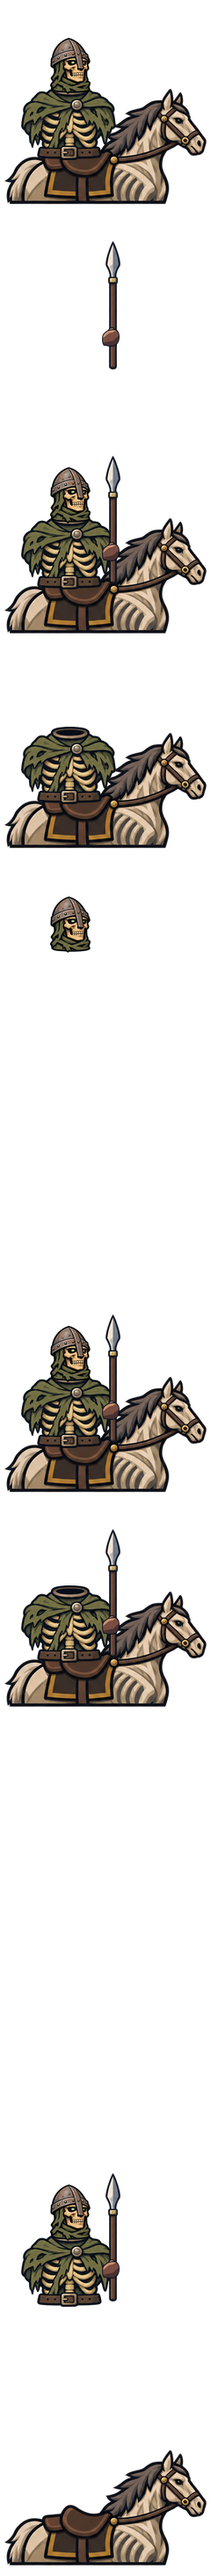
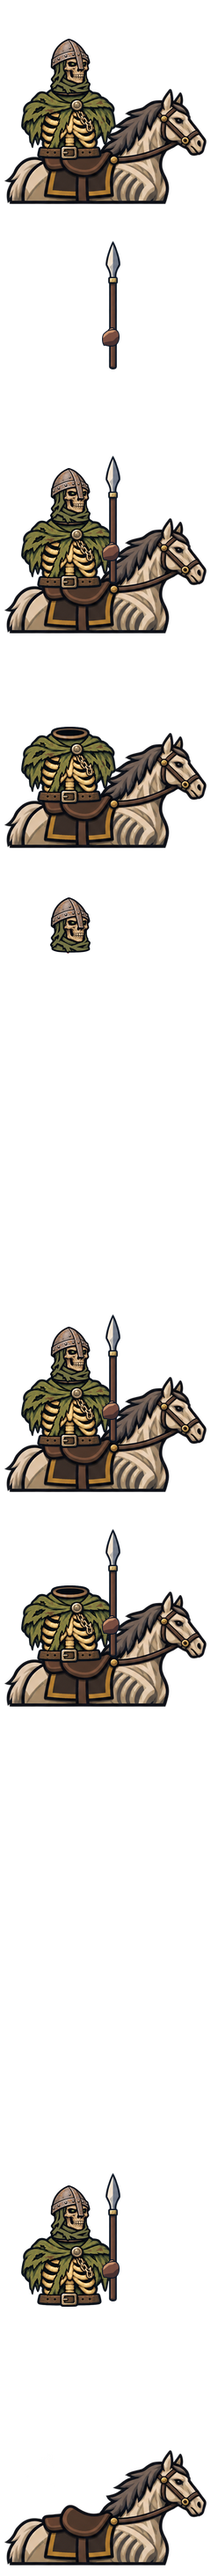
Нежить: варианты бойцов — другие черепа и истлевшие детали (#293) (#304)
Claude-Session: https://claude.ai/code/session_0112NLBndME8PiXpuX2g7p2P

diff --git a/godot/tools/battle/heraldic_source/undead-prompts.md b/godot/tools/battle/heraldic_source/undead-prompts.md
@@ -1,0 +1,25 @@
+# Нежить — части бойцов
+
+Основные листы `undead-torsos.png`, `undead-heads.png`, `undead-shields.png` сделаны по шаблонам
+`shareness/skills/unit-parts/PROMPTS.md` (у Скелета шея обмотана тряпкой, чтобы не просвечивал вырез).
+Порядок клеток (3×3, по строкам): z1 Мертвец, s1 Скелет, s1a Скелет-лучник, s2 Мёртвый воин, s2c Мёртвый всадник,
+s3 Умертвие; три последние клетки пустые.
+
+## Варианты
+
+Листы `undead-torsos-v1…v3.png` и `undead-heads-v1…v3.png` — правка `undead-torsos.png` / `undead-heads.png` (вложение)
+тем же генератором (Codex), по образцу вариантов Галлии (`kin-prompts.md`): те же клетки, тип доспеха, цвета и силуэт,
+другие мертвецы и детали. В промпт туловищ добавлено «The rim at the back of the neck opening keeps the colour it has
+in the attached sheet, NOT grey», в промпт голов — «for skeletons the same rag or mail as in the attached sheet».
+Туловища: v1 — сильнее сгнившее и рваное сукно с дырами, ржавые кольца, треснувшие кости в прорехах, растрёпанная
+верёвка пояса; v2 — другие лохмотья и ремни, помятая пластина или сломанный наплечник, пятна могильной земли,
+свисающая цепь; v3 — выцветшее заплесневелое сукно, патина на бронзе, выпавшие заклёпки, лопнувшая кожа, рваный
+край накидки. Головы: v1 — больше трещин на черепах, выбитые зубы, зеленее гниющая кожа мертвецов; v2 — другие
+черепа, сломанная челюсть, клочья волос, темнее глазницы; v3 — пожелтевшая кость, рассечённая бровь, седые пряди,
+обрывок капюшона. Закрывающие лицо шлемы меняют одну мелочь: v1 вмятина и потёки ржавчины, v2 свисающая полоска
+ткани, v3 сбитое навершие или нет ряда заклёпок.
+
+Генератор сделал сукно вариантов чуть желтее основного (медиана оттенка 0.141–0.146 против 0.156), и меньше пикселей
+сукна попадало в диапазон перекраски под знамя (`hue` 0.17–0.30 в `dominion_heraldic_art.gd`). Поэтому оттенок
+сукна (оттенок > 0.115, кости не трогаются) в листах вариантов сдвинут к медиане основного листа: туловища
++0.011/+0.010/+0.015, головы +0.004/+0.006/+0.020.
